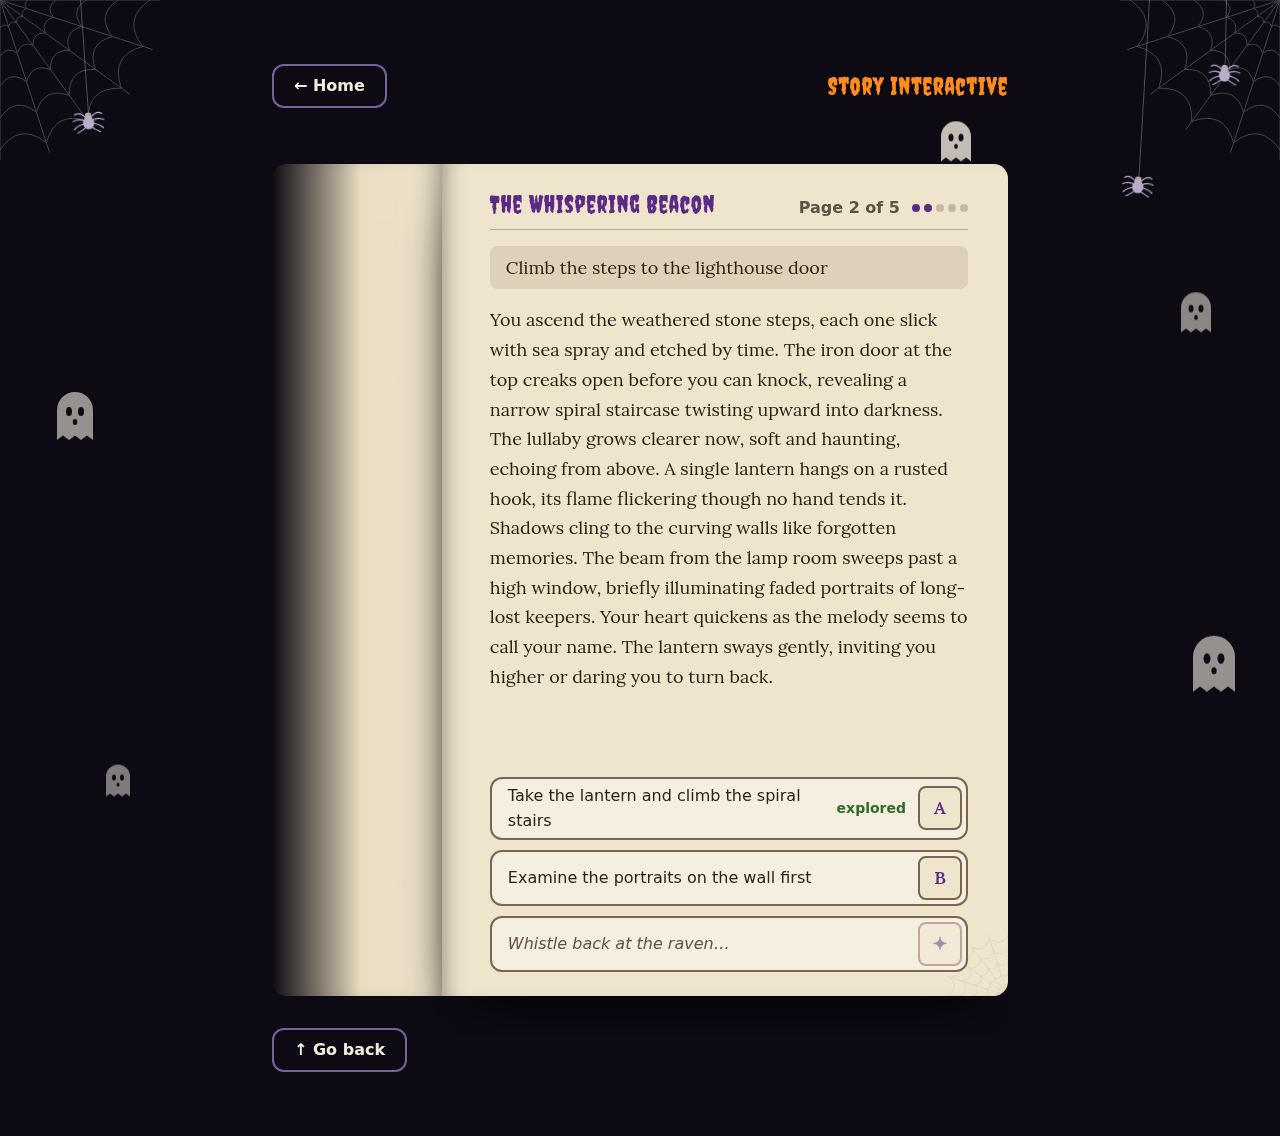
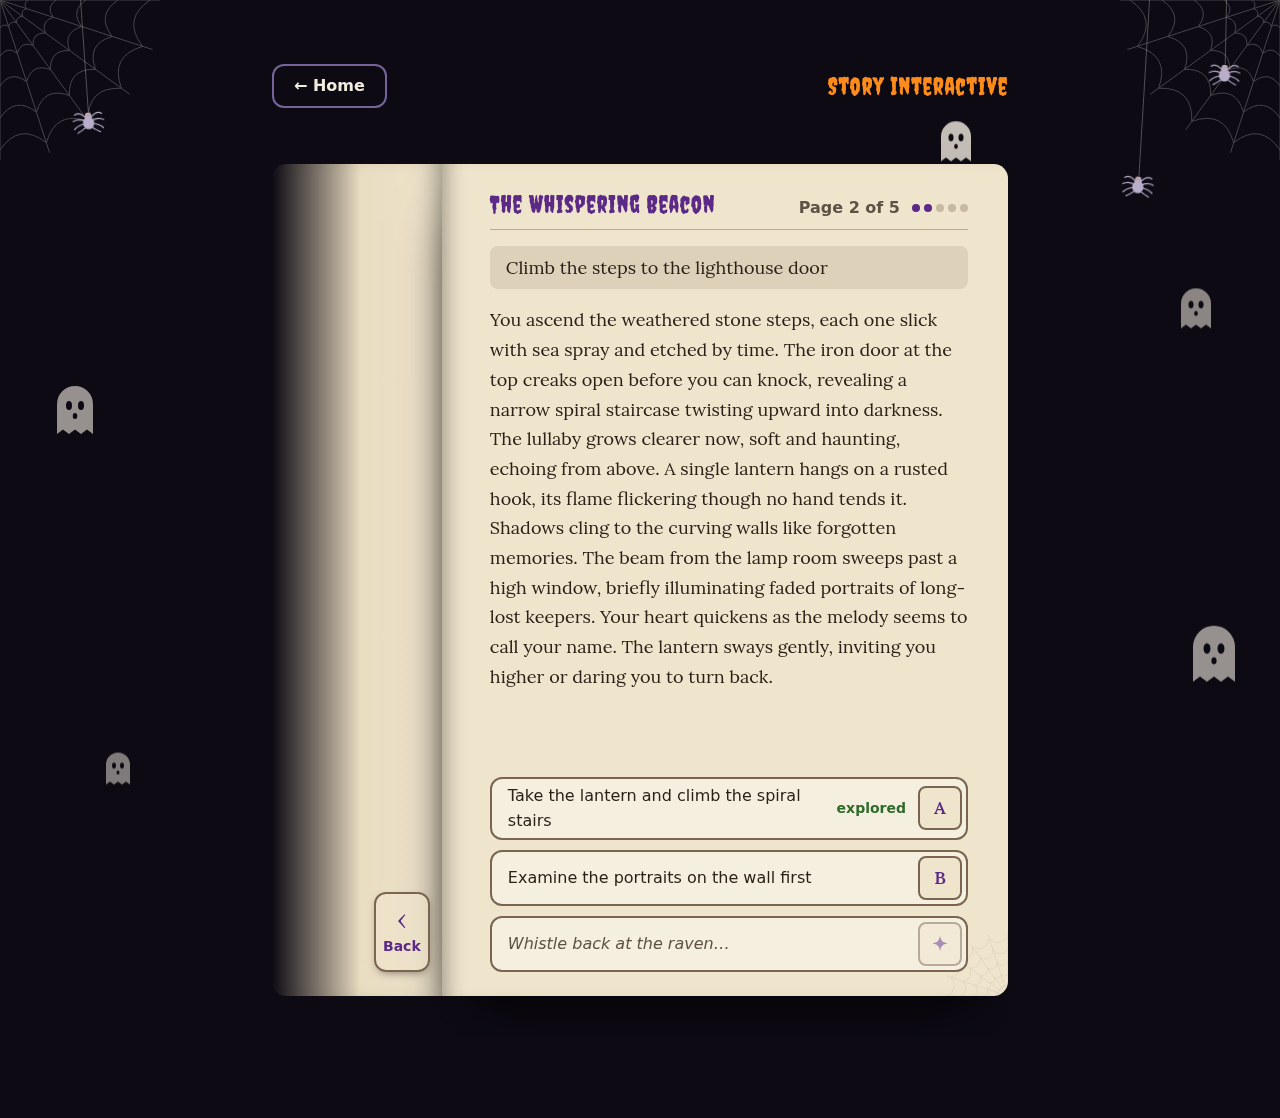
storybook step 10: Go back on the left side of the book
Go back moves from a button under the book to a tab at the foot of the
spine, on the left side where the previous page lies: a round 44px tab
across the spine on phones, a "Back" tab on the left page from 640px.
Hidden on page 1 and during turns. SPEC-3 gains D18; README and its
screenshot follow.

diff --git a/frontend/src/StoryView.tsx b/frontend/src/StoryView.tsx
@@ -19,6 +19,10 @@ type Props = {
 
 const COVER_SIZES = [36, 32, 28, 24, 22, 20, 18] // the idea on the cover shrinks, then truncates (R23)
 // On the closed cover (R19): foil on the cover colours (9.2:1 / 6.2:1), and the cover's deep colour on foil.
+// Go back, on the left side of the book (the previous page): a round tab on the spine on phones, where the
+// left side is too narrow for a 44px button; from sm, a tab on the left page next to the spine.
+const backTab =
+  'flex size-11 -translate-x-1/2 flex-col items-center justify-center rounded-full border-2 border-page-edge bg-page text-page-accent shadow-[0_4px_10px_-4px_rgb(0_0_0/0.5)] transition hover:border-page-accent hover:bg-page-accent hover:text-page focus-visible:outline-3 focus-visible:outline-offset-2 focus-visible:outline-page-accent sm:-ml-3 sm:h-20 sm:w-14 sm:-translate-x-full sm:gap-1 sm:rounded-xl sm:bg-page/70 sm:hover:-translate-x-[calc(100%+3px)]'
 const coverRing = 'focus-visible:outline-3 focus-visible:outline-offset-2 focus-visible:outline-foil'
 const coverPrimary = `min-h-11 rounded-xl border-2 border-foil bg-foil px-5 font-semibold text-book-cover-deep ${coverRing}`
 const coverSecondary = `min-h-11 rounded-xl border-2 border-foil/70 px-5 font-semibold text-foil transition hover:border-foil ${coverRing}`
@@ -306,6 +310,20 @@ export default function StoryView({ theme, start, onHome }: Props) {
           direction={direction}
           firstPage={page?.parent_id === null}
           cover={cover}
+          back={
+            parentId !== null && (
+              <button
+                type="button"
+                onClick={() => !busy && void walkTo(parentId, 'back')}
+                disabled={busy}
+                aria-label="Go back a page"
+                className={`${backTab} ${busy ? 'pointer-events-none opacity-0' : ''}`}
+              >
+                <span aria-hidden="true" className="font-story text-2xl leading-none">‹</span>
+                <span aria-hidden="true" className="hidden text-sm font-semibold sm:block">Back</span>
+              </button>
+            )
+          }
           coverContent={
             // The quill writes the idea on the way in; on the way out the cover shows the title.
             idea === null || cover === 'closing' ? (
@@ -392,11 +410,6 @@ export default function StoryView({ theme, start, onHome }: Props) {
       </div>
 
       <div className="mt-8 flex flex-wrap items-center justify-between gap-4">
-        {parentId !== null && (
-          <button type="button" onClick={() => !busy && void walkTo(parentId, 'back')} disabled={busy} className={secondaryButton}>
-            ↑ Go back
-          </button>
-        )}
         <p role="status" aria-live="polite" className="ml-auto min-h-[1.6em] text-muted italic">
           {waiting ? (slow ? theme.copy.slow : creating ? theme.copy.creating : theme.copy.choosing) : ''}
         </p>

diff --git a/frontend/src/Book.tsx b/frontend/src/Book.tsx
@@ -22,6 +22,7 @@ type Props = {
   firstPage: boolean // page 1: the inside of the cover lies on the left; after that, paper
   cover: CoverState
   coverContent: ReactNode // on the cover's front: the title, or the quill writing the idea
+  back?: ReactNode // the Go back control, drawn at the spine's foot while a page (not the cover) lies on the left
   children: Page
   onSettled: () => void // a turn, the opening or the closing (after the fade) has finished
 }
@@ -32,7 +33,7 @@ const reducedMotion = () => window.matchMedia('(prefers-reduced-motion: reduce)'
 // Presentation only: it never fetches and never decides where a turn goes (R15). Forward, the old page
 // lifts away to the left; back, the new page swings in from the left. Each leaf carries an inert,
 // aria-hidden copy of its page. Calls onSettled when the motion has finished.
-export default function Book({ pageKey, direction, firstPage, cover, coverContent, children, onSettled }: Props) {
+export default function Book({ pageKey, direction, firstPage, cover, coverContent, back, children, onSettled }: Props) {
   const rootRef = useRef<HTMLDivElement>(null)
   const leafRef = useRef<HTMLDivElement>(null)
   const coverRef = useRef<HTMLDivElement>(null)
@@ -124,7 +125,7 @@ export default function Book({ pageKey, direction, firstPage, cover, coverConten
 
   return (
     // overflow-x: clip, so a swinging leaf never makes the window scroll sideways
-    <div ref={rootRef} className="overflow-x-clip">
+    <div ref={rootRef} className="relative overflow-x-clip">
       {/* The padding/negative margin give the page's drop shadow room inside the mask. */}
       <div className="-my-10 grid grid-cols-[minmax(0,12fr)_minmax(0,100fr)] py-10 [mask-image:linear-gradient(90deg,transparent,#000_6%)] [perspective:2200px] sm:grid-cols-[minmax(0,30fr)_minmax(0,100fr)] sm:[mask-image:linear-gradient(90deg,transparent,#000_12%)]">
         <div aria-hidden="true" className={`rounded-l-[0.9rem] ${SIDE_STYLE[left]}`} />
@@ -147,6 +148,10 @@ export default function Book({ pageKey, direction, firstPage, cover, coverConten
           )}
         </div>
       </div>
+      {/* Outside the faded mask so it stays fully visible; its left edge is the spine. bottom-16: the 2.5rem shadow room below the page, plus 1.5rem. */}
+      {back && left === 'paper' && (
+        <div className="absolute bottom-16 left-[calc(100%*12/112)] z-20 sm:left-[calc(100%*30/130)]">{back}</div>
+      )}
     </div>
   )
 }

diff --git a/SPEC-3.md b/SPEC-3.md
@@ -20,7 +20,7 @@ unchanged. Animation never decides anything and never hides an error.
   of the cover** (in the cover's own colour) on page 1, and the **back of the previous page** (blank paper)
   after that. Never any text. On phones the strip is about 12% of the page width, so the page stays wide enough
   for 18px text. A closed book shows only the cover. A turning page or the cover never fades out: it swings over
-  and lands on the left side, which then shows it. Decorative only: `aria-hidden`, no controls.
+  and lands on the left side, which then shows it. Decorative (`aria-hidden`) apart from the Go back tab (D18).
 - D8. "Level n of max" becomes **"Page n of max"** everywhere in the UI. The API keeps `level` / `max_level`.
 - D9. Each page shows, top to bottom: story title and "Page n of max" (with progress dots), **the action
   that led here** in a grey box, the passage, then the choices and the custom-action box. The action is in
@@ -34,6 +34,15 @@ unchanged. Animation never decides anything and never hides an error.
   row says it (this replaces `SPEC.md`'s "disabled with a reason"). "explored" stays: it's information.
 - D17. **All choices look the same**: three rows, text on the left and a key on the right (`[A]`, `[B]`, `[✦]`).
   The third row is the custom input, or the existing custom option once someone has written one.
+- D18. **Go back sits on the left side of the book**, where the previous page lies, as a tab at the foot of the
+  spine, 24px above the page's bottom edge, beside the last choice. It replaces the "↑ Go back" button under the book.
+  - Phones (under 640px): the left strip is too narrow for a 44px button, so a round 44px "‹" tab sits across the
+    spine, half on the strip and half on the page's empty left margin (never over text).
+  - From 640px: a 56×80px "‹ Back" tab on the left page, just left of the spine.
+  - Paper styles: `page-accent` text on `page`, `page-edge` border, filled with `page-accent` on hover, focus
+    ring in `page-accent`. Screen readers hear "Go back a page". It comes after the choices in tab order.
+  - Shown only while paper lies on the left (never on page 1, where the inside of the cover is, and never on a
+    closed book). It fades out during every turn and while a page is being written (R17).
 - D10. The pages are **light paper with dark ink**. The rest of the screen stays dark. This is the one light
   surface in the app and has its own tokens (`page-*`, below). Themes stay dark otherwise (TH10 amended).
 - D11. The quill writes during every wait for Grok: the idea on the cover while a story is created, the chosen
@@ -74,7 +83,7 @@ book screen takes over. Picking a story from the list calls `onOpen(rootNodeId)`
 | **Open a saved story** | The book appears closed with the story title on the cover (already written, no pen) and opens straight away. | `GET /api/nodes/{root}` |
 | **Pick an explored option** | The page turns forward to the child. | `GET /api/nodes/{child}` first, then the turn |
 | **Pick a new option / custom action** | The page turns forward to a blank page. The quill writes the action at the top; the passage area says `theme.copy.choosing`. When the node arrives, the passage inks in sentence by sentence, then the choices fade in. | `POST /api/nodes/{id}/choose` sent before the turn starts |
-| **↑ Go back** | A page swings back over from the left onto the parent. | `GET /api/nodes/{parent}` first |
+| **Go back** (the tab on the left side, D18) | A page swings back over from the left onto the parent. | `GET /api/nodes/{parent}` first |
 | **Start over** (ending) | One backward turn to page 1. | `GET /api/stories/{id}`, `GET /api/nodes/{root}` |
 | **Home** | The cover swings shut, the book fades out and is removed, the home page fades in. | none |
 
@@ -159,7 +168,7 @@ red never looks like the theme's own colour (TH9).
 R15. ★ A forward turn happens only after the tree says where it goes: a walk turns once `GET` has returned
      the child; a generate turns to a blank page at once, but the page is only filled from the node the
      backend returned. The UI never invents a node.
-R16. A back turn always goes to `parent_id` (R6). Page 1 has no "↑ Go back".
+R16. A back turn always goes to `parent_id` (R6). Page 1 has no Go back tab.
 R17. While a turn, the cover or a generation is running, every control in the book is disabled, so a
      choice can't be sent twice (replaces the overlay that `ThemedLoader` used for this).
 R18. If generating fails (502, 504, network) the blank page turns back to the page the player was on, and the
@@ -203,6 +212,7 @@ R23. ★ Fit, never grow: if a page's content doesn't fit the fixed height, the 
 - Scrolled down to the choices on a phone or short laptop screen → the turn scrolls back to the page-numbering
   line, not to the top of the window; only the header with ← Home is then above the screen (R20)
 - Keyboard only → every control reachable, visible focus ring in `page-accent` on paper
+- 320px phone → the round Go back tab ends about 2px before the custom-action row: close, but never over it (D18)
 
 ## Theme rule changes (`theme-specs/README.md`)
 - TH8 adds the `page-*` and `foil` pairs above.

diff --git a/PLAN-3.md b/PLAN-3.md
@@ -144,6 +144,16 @@ Headless Chromium against `./dev.sh`, for each theme at 1280, 390 and 320 px:
 - [ ] `README.md`: one paragraph and a screenshot of the book.
 - [x] Deploy: backend first (additive), then the frontend.
 
+## Step 10: Go back on the left side of the book (D18)
+- [x] `Book.tsx`: a `back` slot, drawn outside the faded mask at the foot of the spine, only while paper lies on the left.
+- [x] `StoryView.tsx`: passes the tab (round "‹" on phones, "‹ Back" from 640px, "Go back a page" for screen
+  readers), hidden while busy; the "↑ Go back" button under the book is removed.
+- [x] `SPEC-3.md` (D7, D18, the flow table, R16, an edge case) and the README's "How to play".
+
+**Done when:** `./test.sh` passes; in both themes at 320, 390, 640 and 1280px the tab is at least 44px, never
+covers text, causes no sideways scroll, is absent on page 1 and during turns, shows its focus ring from the
+keyboard, and turns back with focus on "Page n of max"; its text contrast is at least 4.5:1 (measured 7.1–7.8:1).
+
 ## Risks
 - **Animations and focus.** A turn moves DOM while the player may be tabbing. Controls are disabled during turns
   and the leaf is `inert`, and focus is set only after the turn settles (R17, R20).

diff --git a/README.md b/README.md
@@ -52,7 +52,7 @@ Always use `./test.sh` (it loads `.env`). Tests run against a separate `app_test
 0. Pick a theme with the icons at the top of the home page (🎃 pumpkin, 🎄 tree), or keep the season's default. The list below shows that theme's tales.
 1. Type an idea ("A jack-o-lantern that whispers the names of the dead") and press **Summon a tale** (**Spin a tale** in Christmas) or Enter.
 2. Pick **A** or **B**, or type your own action and press **✦** (or Enter). Paths marked **explored** were taken before and open instantly.
-3. **↑ Go back** walks up one level; **← Home** returns to the list of tales.
+3. The **‹ Back** tab on the left side of the book (a round **‹** on phones) turns back one page; **← Home** returns to the list of tales.
 4. On the last level you reach **The End**: **Start over** goes back to the first passage to try another path.
 
 ---
